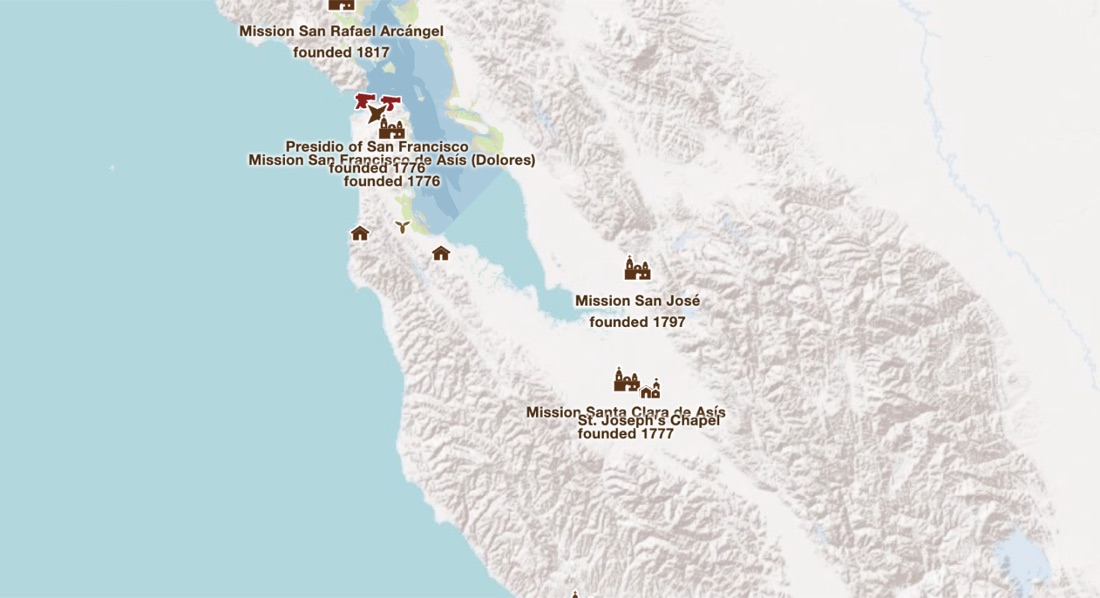
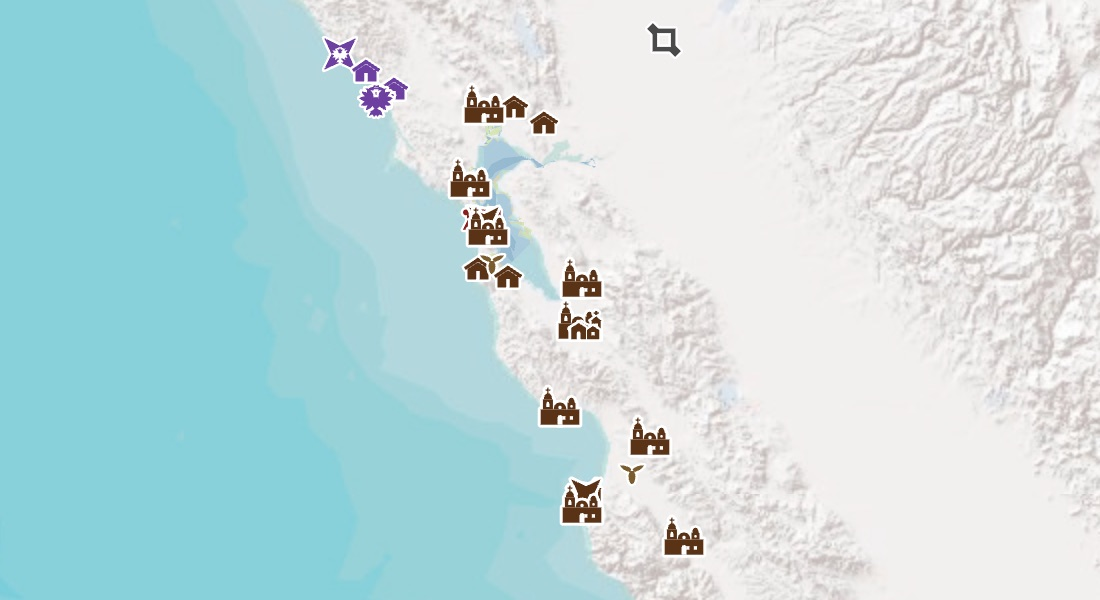
Landing: map count 14 -> 18 (counts every map card: Missionization + the three exhibit maps), their data in the feature total; exhibit thumbnails re-shot zoomed out so routes, territories and symbols read at card size

diff --git a/index.html b/index.html
@@ -209,7 +209,7 @@
       <div class="thumb" style="background-image:url(assets/previews/sf-bay-expeditions.jpg)"></div>
       <div class="body">
         <h3>San Francisco Bay Expeditions</h3>
-        <p class="meta">Sea &amp; land, 1542–1776 · plus Moraga 1806</p>
+        <p class="meta" data-count="sf-bay-expeditions">Sea &amp; land, 1542–1776 · plus Moraga 1806</p>
         <p>Five sea approaches as coastal ribbons, Ayala's longboat surveys, and the six land
         expeditions of 1769–1776, each stop carrying the diary's account of the day.</p>
       </div>
@@ -218,7 +218,7 @@
       <div class="thumb" style="background-image:url(assets/previews/ranchos-by-era.jpg)"></div>
       <div class="body">
         <h3>Ranchos by Era</h3>
-        <p class="meta">The portal's boundaries · Spanish vs Mexican, or by governor</p>
+        <p class="meta" data-count="ranchos-by-era">The portal's boundaries · Spanish vs Mexican, or by governor</p>
         <p>The rancho portal's own boundaries overlaid by era or by granting governor; every
         parcel keeps its portal record, land case, and diseño links.</p>
       </div>
@@ -303,7 +303,10 @@
 
 <script>
 (function () {
-  var maps = ["possession-acts", "native-california", "military-engagements", "bay-coastal-defense", "presidial-system", "bodega-ross-corridor", "ranchos", "secularization-missions", "population-californias", "borderlands-frontier", "moraga-expeditions", "zalvidea-moraga-1806", "lumber-ports", "lighthouses"];
+  var maps = ["possession-acts", "native-california", "military-engagements", "bay-coastal-defense", "presidial-system", "bodega-ross-corridor", "ranchos", "secularization-missions", "population-californias", "borderlands-frontier", "moraga-expeditions", "zalvidea-moraga-1806", "lumber-ports", "lighthouses",
+    "missionization-establishments", "missionization-extras", "sf-bay-expeditions", "ranchos-by-era"];
+  // one entry per landing card; the four exhibit maps draw on the data files above (no double counting)
+  var mapCount = document.querySelectorAll('a.card[href^="maps/"]').length;
   var total = 0, done = 0, engagements = 0;
   maps.forEach(function (id) {
     fetch("data/" + id + ".json").then(function (r) { return r.json(); }).then(function (d) {
@@ -318,7 +321,7 @@
       var meta = document.querySelector('[data-count="' + id + '"]');
       if (meta) meta.textContent = n + " features · " + meta.textContent;
       if (++done === maps.length) {
-        document.getElementById("stat-maps").textContent = maps.length;
+        document.getElementById("stat-maps").textContent = mapCount;
         document.getElementById("stat-features").textContent = total.toLocaleString();
         document.getElementById("stat-engagements").textContent = engagements;
       }
